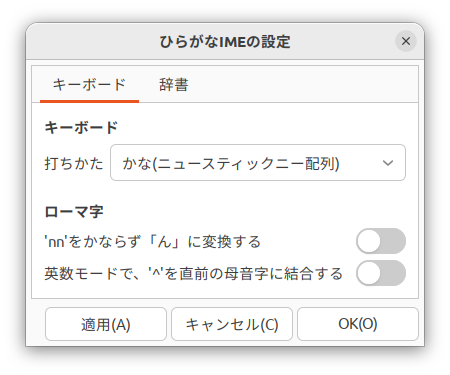
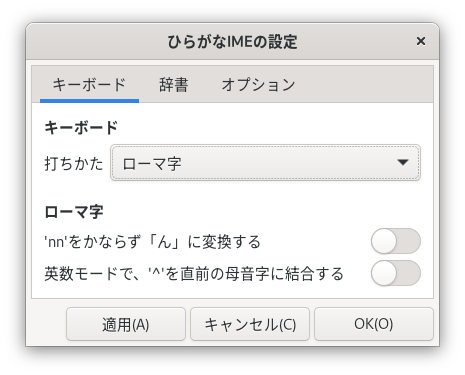
docs: Add Setup-Option description
docs/altgr.html
docs/ibus-setup-hiragana_1.png
docs/ibus-setup-hiragana_2.png
docs/ibus-setup-hiragana_3.png
docs/index.html
docs/install.html
docs/key_assign.html
docs/layouts.html
docs/meson.build
docs/roomazi.html
docs/settings.html
docs/usage.html
docs_md/settings.md

diff --git a/docs/settings.html b/docs/settings.html
@@ -75,6 +75,7 @@ function shrinkToc() {
   <li><a href='settings.html#ibus-setup-hiragana'>「ひらがなIMEの<ruby>設定<rp>(</rp><rt>せってい</rt><rp>)</rp></ruby>」ウィンドウ</a>
   <li><a href='settings.html#layout'>[キーボード] タブ</a>
   <li><a href='settings.html#dictionary'>[<ruby>辞書<rp>(</rp><rt>じしょ</rt><rp>)</rp></ruby>] タブ</a>
+  <li><a href='settings.html#option'>[オプション] タブ</a>
 </ul>
 </details>
 <li><details><summary><a href='layouts.html'>かな<ruby>入力<rp>(</rp><rt>にゅうりょく</rt><rp>)</rp></ruby></a></summary>
@@ -107,8 +108,8 @@ function shrinkToc() {
 <h2 id="ibus-setup-hiragana">「ひらがなIMEの<ruby>設定<rp>(</rp><rt>せってい</rt><rp>)</rp></ruby>」ウィンドウ</h2>
 <p>&#x3000;「ひらがなIME」の<ruby>設定<rp>(</rp><rt>せってい</rt><rp>)</rp></ruby>は、「ひらがなIMEの<ruby>設定<rp>(</rp><rt>せってい</rt><rp>)</rp></ruby>」ウィンドウでおこないます。トップバーのキーボード メニューから[<ruby>設定<rp>(</rp><rt>せってい</rt><rp>)</rp></ruby>]をえらぶと、「ひらがなIMEの<ruby>設定<rp>(</rp><rt>せってい</rt><rp>)</rp></ruby>」ウィンドウがひらきます。</p>
 <p><img alt="キーボード メニュー" src="keyboard-menu.png"></p>
-<p><img alt="「ひらがなIMEの&lt;ruby&gt;設定&lt;rp&gt;(&lt;/rp&gt;&lt;rt&gt;せってい&lt;/rt&gt;&lt;rp&gt;)&lt;/rp&gt;&lt;/ruby&gt;」ウィンドウ" src="ibus-setup-hiragana_1.png"></p>
-<p><br>&#x3000;「ひらがなIMEの<ruby>設定<rp>(</rp><rt>せってい</rt><rp>)</rp></ruby>」ウィンドウには、つぎのふたつのタブがあります。</p>
+<p><img alt="「ひらがなIMEの設定」ウィンドウ" src="ibus-setup-hiragana_1.png"></p>
+<p><br>&#x3000;「ひらがなIMEの<ruby>設定<rp>(</rp><rt>せってい</rt><rp>)</rp></ruby>」ウィンドウには、つぎの３つのタブがあります。</p>
 <table>
 <thead>
 <tr>
@@ -125,12 +126,16 @@ function shrinkToc() {
 <td><a href="#dictionary"><ruby>辞書<rp>(</rp><rt>じしょ</rt><rp>)</rp></ruby></a></td>
 <td><ruby>使用<rp>(</rp><rt>しよう</rt><rp>)</rp></ruby>する<ruby>漢字<rp>(</rp><rt>かんじ</rt><rp>)</rp></ruby><ruby>辞書<rp>(</rp><rt>じしょ</rt><rp>)</rp></ruby>をえらびます。「ひらがなIME」は、<ruby>学年<rp>(</rp><rt>がくねん</rt><rp>)</rp></ruby><ruby>別<rp>(</rp><rt>べつ</rt><rp>)</rp></ruby>の<ruby>漢字<rp>(</rp><rt>かんじ</rt><rp>)</rp></ruby><ruby>辞書<rp>(</rp><rt>じしょ</rt><rp>)</rp></ruby>を<ruby>用意<rp>(</rp><rt>ようい</rt><rp>)</rp></ruby>しています。</td>
 </tr>
+<tr>
+<td><a href="#option">オプション</a></td>
+<td><ruby>追加<rp>(</rp><rt>ついか</rt><rp>)</rp></ruby>の<ruby>設定<rp>(</rp><rt>せってい</rt><rp>)</rp></ruby>をします。</td>
+</tr>
 </tbody>
 </table>
 <p>&#x3000;<ruby>設定<rp>(</rp><rt>せってい</rt><rp>)</rp></ruby>した<ruby>内容<rp>(</rp><rt>ないよう</rt><rp>)</rp></ruby>は、[<ruby>OK<rp>(</rp><rt>オッケー</rt><rp>)</rp></ruby>]ボタンか[<ruby>適用<rp>(</rp><rt>てきよう</rt><rp>)</rp></ruby>]ボタンをおせば「ひらがなIME」にすぐ<ruby>反映<rp>(</rp><rt>はんえい</rt><rp>)</rp></ruby>されます。</p>
 <h2 id="layout">[キーボード] タブ</h2>
 <p>&#x3000;[キーボード]タブでは、<ruby>日本語<rp>(</rp><rt>にほんご</rt><rp>)</rp></ruby>の<ruby>入力<rp>(</rp><rt>にゅうりょく</rt><rp>)</rp></ruby><ruby>方法<rp>(</rp><rt>ほうほう</rt><rp>)</rp></ruby>を<ruby>設定<rp>(</rp><rt>せってい</rt><rp>)</rp></ruby>します。</p>
-<p><img alt="「ひらがなIMEの&lt;ruby&gt;設定&lt;rp&gt;(&lt;/rp&gt;&lt;rt&gt;せってい&lt;/rt&gt;&lt;rp&gt;)&lt;/rp&gt;&lt;/ruby&gt;」ウィンドウ" src="ibus-setup-hiragana_1.png"></p>
+<p><img alt="「ひらがなIMEの設定」ウィンドウ" src="ibus-setup-hiragana_1.png"></p>
 <p>&#x3000;「<ruby>打<rp>(</rp><rt>う</rt><rp>)</rp></ruby>ちかた」は、ドロップダウンリストからえらびます。つぎの３<ruby>種類<rp>(</rp><rt>しゅるい</rt><rp>)</rp></ruby>があります。</p>
 <table>
 <thead>
@@ -180,7 +185,7 @@ function shrinkToc() {
 
 <h2 id="dictionary">[<ruby>辞書<rp>(</rp><rt>じしょ</rt><rp>)</rp></ruby>] タブ</h2>
 <p>&#x3000;[<ruby>辞書<rp>(</rp><rt>じしょ</rt><rp>)</rp></ruby>]タブでは、<ruby>漢字<rp>(</rp><rt>かんじ</rt><rp>)</rp></ruby><ruby>変換<rp>(</rp><rt>へんかん</rt><rp>)</rp></ruby>につかう<ruby>辞書<rp>(</rp><rt>じしょ</rt><rp>)</rp></ruby>を<ruby>指定<rp>(</rp><rt>してい</rt><rp>)</rp></ruby>します。「ひらがなIME」は、おとな<ruby>用<rp>(</rp><rt>よう</rt><rp>)</rp></ruby>の<ruby>漢字<rp>(</rp><rt>かんじ</rt><rp>)</rp></ruby><ruby>辞書<rp>(</rp><rt>じしょ</rt><rp>)</rp></ruby>のほかに、<ruby>小中学生<rp>(</rp><rt>しょうちゅうがくせい</rt><rp>)</rp></ruby><ruby>用<rp>(</rp><rt>よう</rt><rp>)</rp></ruby>の<ruby>学年<rp>(</rp><rt>がくねん</rt><rp>)</rp></ruby><ruby>別<rp>(</rp><rt>べつ</rt><rp>)</rp></ruby>の<ruby>辞書<rp>(</rp><rt>じしょ</rt><rp>)</rp></ruby>を<ruby>用意<rp>(</rp><rt>ようい</rt><rp>)</rp></ruby>しています。</p>
-<p><img alt="「ひらがなIMEの&lt;ruby&gt;設定&lt;rp&gt;(&lt;/rp&gt;&lt;rt&gt;せってい&lt;/rt&gt;&lt;rp&gt;)&lt;/rp&gt;&lt;/ruby&gt;」ウィンドウ" src="ibus-setup-hiragana_2.png"></p>
+<p><img alt="「ひらがなIMEの設定」ウィンドウ" src="ibus-setup-hiragana_2.png"></p>
 <p>&#x3000;<ruby>漢字<rp>(</rp><rt>かんじ</rt><rp>)</rp></ruby><ruby>辞書<rp>(</rp><rt>じしょ</rt><rp>)</rp></ruby>は、「<ruby>漢字<rp>(</rp><rt>かんじ</rt><rp>)</rp></ruby><ruby>辞書<rp>(</rp><rt>じしょ</rt><rp>)</rp></ruby>」コンボボックスでえらびます。</p>
 <p>&#x3000;おとな<ruby>用<rp>(</rp><rt>よう</rt><rp>)</rp></ruby>の<ruby>辞書<rp>(</rp><rt>じしょ</rt><rp>)</rp></ruby>は、「<a href="https://www.bunka.go.jp/kokugo_nihongo/sisaku/joho/joho/kijun/naikaku/kanji/"><ruby>常用<rp>(</rp><rt>じょうよう</rt><rp>)</rp></ruby><ruby>漢字<rp>(</rp><rt>かんじ</rt><rp>)</rp></ruby><ruby>表<rp>(</rp><rt>ひょう</rt><rp>)</rp></ruby></a>」にある<ruby>漢字<rp>(</rp><rt>かんじ</rt><rp>)</rp></ruby>と「<a href="http://www.moj.go.jp/MINJI/minji86.html"><ruby>人名<rp>(</rp><rt>じんめい</rt><rp>)</rp></ruby><ruby>用<rp>(</rp><rt>よう</rt><rp>)</rp></ruby><ruby>漢字<rp>(</rp><rt>かんじ</rt><rp>)</rp></ruby><ruby>表<rp>(</rp><rt>ひょう</rt><rp>)</rp></ruby></a>」にある<ruby>漢字<rp>(</rp><rt>かんじ</rt><rp>)</rp></ruby>をつかって<ruby>構成<rp>(</rp><rt>こうせい</rt><rp>)</rp></ruby>されています。<ruby>学年<rp>(</rp><rt>がくねん</rt><rp>)</rp></ruby><ruby>別<rp>(</rp><rt>べつ</rt><rp>)</rp></ruby>の<ruby>辞書<rp>(</rp><rt>じしょ</rt><rp>)</rp></ruby>は、<ruby>平成<rp>(</rp><rt>へいせい</rt><rp>)</rp></ruby>29<ruby>年<rp>(</rp><rt>ねん</rt><rp>)</rp></ruby>の「<a href="http://www.mext.go.jp/a_menu/shotou/new-cs/1385768.htm"><ruby>音訓<rp>(</rp><rt>おんくん</rt><rp>)</rp></ruby>の<ruby>小<rp>(</rp><rt>しょう</rt><rp>)</rp></ruby>・<ruby>中<rp>(</rp><rt>ちゅう</rt><rp>)</rp></ruby>・<ruby>高等学校<rp>(</rp><rt>こうとうがっこう</rt><rp>)</rp></ruby><ruby>段階<rp>(</rp><rt>だんかい</rt><rp>)</rp></ruby><ruby>別<rp>(</rp><rt>べつ</rt><rp>)</rp></ruby><ruby>割<rp>(</rp><rt>わ</rt><rp>)</rp></ruby>り<ruby>振<rp>(</rp><rt>ふ</rt><rp>)</rp></ruby>り<ruby>表<rp>(</rp><rt>ひょう</rt><rp>)</rp></ruby></a>」にそって<ruby>構成<rp>(</rp><rt>こうせい</rt><rp>)</rp></ruby>されています。</p>
 <p>&#x3000;おくりがなのつけかたは、『<a href="http://www.bunka.go.jp/kokugo_nihongo/sisaku/joho/joho/kijun/naikaku/okurikana/index.html"><ruby>送<rp>(</rp><rt>おく</rt><rp>)</rp></ruby>り<ruby>仮名<rp>(</rp><rt>かな</rt><rp>)</rp></ruby>の<ruby>付<rp>(</rp><rt>つ</rt><rp>)</rp></ruby>け<ruby>方<rp>(</rp><rt>かた</rt><rp>)</rp></ruby></a>』に<ruby>本則<rp>(</rp><rt>ほんそく</rt><rp>)</rp></ruby>や<ruby>許容<rp>(</rp><rt>きょよう</rt><rp>)</rp></ruby>されているつけかたがしめされています。「おとな<ruby>用<rp>(</rp><rt>よう</rt><rp>)</rp></ruby>(おくりがな: <ruby>本則<rp>(</rp><rt>ほんそく</rt><rp>)</rp></ruby>)」<ruby>辞書<rp>(</rp><rt>じしょ</rt><rp>)</rp></ruby>では、<ruby>本則<rp>(</rp><rt>ほんそく</rt><rp>)</rp></ruby>をつかいます。「おとな<ruby>用<rp>(</rp><rt>よう</rt><rp>)</rp></ruby>(おくりがな: <ruby>本則<rp>(</rp><rt>ほんそく</rt><rp>)</rp></ruby>+<ruby>許容<rp>(</rp><rt>きょよう</rt><rp>)</rp></ruby>)」<ruby>辞書<rp>(</rp><rt>じしょ</rt><rp>)</rp></ruby>では、<ruby>本則<rp>(</rp><rt>ほんそく</rt><rp>)</rp></ruby>にくわえて、<ruby>許容<rp>(</rp><rt>きょよう</rt><rp>)</rp></ruby>されているおくりかたもつかえます。</p>
@@ -352,6 +357,17 @@ function shrinkToc() {
 </table>
 <h3><ruby>入力<rp>(</rp><rt>にゅうりょく</rt><rp>)</rp></ruby><ruby>履歴<rp>(</rp><rt>りれき</rt><rp>)</rp></ruby>のクリア</h3>
 <p>&#x3000;<ruby>同音<rp>(</rp><rt>どうおん</rt><rp>)</rp></ruby><ruby>異義<rp>(</rp><rt>いぎ</rt><rp>)</rp></ruby><ruby>語<rp>(</rp><rt>ご</rt><rp>)</rp></ruby>やよみを<ruby>短縮<rp>(</rp><rt>たんしゅく</rt><rp>)</rp></ruby>したことばの<ruby>変換<rp>(</rp><rt>へんかん</rt><rp>)</rp></ruby><ruby>中<rp>(</rp><rt>ちゅう</rt><rp>)</rp></ruby>は、よくつかうものが<ruby>一覧<rp>(</rp><rt>いちらん</rt><rp>)</rp></ruby>のはじめのほうにきます。これを<ruby>初期<rp>(</rp><rt>しょき</rt><rp>)</rp></ruby><ruby>状態<rp>(</rp><rt>じょうたい</rt><rp>)</rp></ruby>にもどしたいときは、「<ruby>入力<rp>(</rp><rt>にゅうりょく</rt><rp>)</rp></ruby><ruby>履歴<rp>(</rp><rt>りれき</rt><rp>)</rp></ruby>をクリアする」スイッチをオンにして[<ruby>適用<rp>(</rp><rt>てきよう</rt><rp>)</rp></ruby>]ボタンをおします。</p>
+<h2 id="option">[オプション] タブ</h2>
+<p>&#x3000;[オプション]タブでは、<ruby>入力<rp>(</rp><rt>にゅうりょく</rt><rp>)</rp></ruby>アシスト<ruby>機能<rp>(</rp><rt>きのう</rt><rp>)</rp></ruby>の<ruby>設定<rp>(</rp><rt>せってい</rt><rp>)</rp></ruby>ができます。</p>
+<p><img alt="「ひらがなIMEの設定」ウィンドウ" src="ibus-setup-hiragana_3.png"></p>
+<h3 id="llm"><ruby>変換<rp>(</rp><rt>へんかん</rt><rp>)</rp></ruby><ruby>候補<rp>(</rp><rt>こうほ</rt><rp>)</rp></ruby>の<ruby>選択<rp>(</rp><rt>せんたく</rt><rp>)</rp></ruby>に<ruby>大規模<rp>(</rp><rt>だいきぼ</rt><rp>)</rp></ruby><ruby>言語<rp>(</rp><rt>げんご</rt><rp>)</rp></ruby>モデルを<ruby>利用<rp>(</rp><rt>りよう</rt><rp>)</rp></ruby>する</h3>
+<p>&#x3000;いわゆるAIを<ruby>利用<rp>(</rp><rt>りよう</rt><rp>)</rp></ruby>した<ruby>機能<rp>(</rp><rt>きのう</rt><rp>)</rp></ruby>です。オンにすると、<ruby>変換<rp>(</rp><rt>へんかん</rt><rp>)</rp></ruby><ruby>候補<rp>(</rp><rt>こうほ</rt><rp>)</rp></ruby>のなかで<ruby>選択<rp>(</rp><rt>せんたく</rt><rp>)</rp></ruby>する<ruby>確率<rp>(</rp><rt>かくりつ</rt><rp>)</rp></ruby>のたかい<ruby>候補<rp>(</rp><rt>こうほ</rt><rp>)</rp></ruby>を<ruby>文脈<rp>(</rp><rt>ぶんみゃく</rt><rp>)</rp></ruby>から<ruby>計算<rp>(</rp><rt>けいさん</rt><rp>)</rp></ruby>します。そして、もっとも<ruby>確率<rp>(</rp><rt>かくりつ</rt><rp>)</rp></ruby>のたかい<ruby>候補<rp>(</rp><rt>こうほ</rt><rp>)</rp></ruby>をあらかじめ<ruby>選択<rp>(</rp><rt>せんたく</rt><rp>)</rp></ruby>した<ruby>状態<rp>(</rp><rt>じょうたい</rt><rp>)</rp></ruby>で<ruby>表示<rp>(</rp><rt>ひょうじ</rt><rp>)</rp></ruby>します。</p>
+<p>&#x3000;たとえば、「のぼる」を<ruby>変換<rp>(</rp><rt>へんかん</rt><rp>)</rp></ruby>するときは、<ruby>文脈<rp>(</rp><rt>ぶんみゃく</rt><rp>)</rp></ruby>に<ruby>応<rp>(</rp><rt>おう</rt><rp>)</rp></ruby>じてつぎのように<ruby>選択<rp>(</rp><rt>せんたく</rt><rp>)</rp></ruby>されている<ruby>候補<rp>(</rp><rt>こうほ</rt><rp>)</rp></ruby>がかわります。</p>
+<ul>
+<li><ruby>山<rp>(</rp><rt>やま</rt><rp>)</rp></ruby>に<span style="background-color:#d1eaff">登る</span></li>
+<li><ruby>日<rp>(</rp><rt>ひ</rt><rp>)</rp></ruby>が<span style="background-color:#d1eaff">昇る</span></li>
+</ul>
+<p><strong><ruby>注意<rp>(</rp><rt>ちゅうい</rt><rp>)</rp></ruby></strong>: あくまで<ruby>確率<rp>(</rp><rt>かくりつ</rt><rp>)</rp></ruby>を<ruby>計算<rp>(</rp><rt>けいさん</rt><rp>)</rp></ruby>しているだけなので、じっさいにつかいたい<ruby>候補<rp>(</rp><rt>こうほ</rt><rp>)</rp></ruby>がいつもえらばれるわけではありません。この<ruby>機能<rp>(</rp><rt>きのう</rt><rp>)</rp></ruby>ばデフォルトではオフになっています。</p>
 </main>
 </div>
 

diff --git a/docs/altgr.html b/docs/altgr.html
@@ -75,6 +75,7 @@ function shrinkToc() {
   <li><a href='settings.html#ibus-setup-hiragana'>「ひらがなIMEの<ruby>設定<rp>(</rp><rt>せってい</rt><rp>)</rp></ruby>」ウィンドウ</a>
   <li><a href='settings.html#layout'>[キーボード] タブ</a>
   <li><a href='settings.html#dictionary'>[<ruby>辞書<rp>(</rp><rt>じしょ</rt><rp>)</rp></ruby>] タブ</a>
+  <li><a href='settings.html#option'>[オプション] タブ</a>
 </ul>
 </details>
 <li><details><summary><a href='layouts.html'>かな<ruby>入力<rp>(</rp><rt>にゅうりょく</rt><rp>)</rp></ruby></a></summary>
@@ -110,7 +111,7 @@ function shrinkToc() {
 <p>&#x3000;<ruby>日本語<rp>(</rp><rt>にほんご</rt><rp>)</rp></ruby>にも、よくつかう<ruby>文字<rp>(</rp><rt>もじ</rt><rp>)</rp></ruby>で、キーボードからちょくせつ<ruby>入力<rp>(</rp><rt>にゅうりょく</rt><rp>)</rp></ruby>できない<ruby>文字<rp>(</rp><rt>もじ</rt><rp>)</rp></ruby>があります。たとえば、<ruby>郵便<rp>(</rp><rt>ゆうびん</rt><rp>)</rp></ruby><ruby>番号<rp>(</rp><rt>ばんごう</rt><rp>)</rp></ruby>の「〒」や、<ruby>温度<rp>(</rp><rt>おんど</rt><rp>)</rp></ruby>の「℃」といった<ruby>文字<rp>(</rp><rt>もじ</rt><rp>)</rp></ruby>です。「ひらがなIME」では、そうした<ruby>文字<rp>(</rp><rt>もじ</rt><rp>)</rp></ruby>を<span class='key'>AltGr</span>キーをつかって<ruby>入力<rp>(</rp><rt>にゅうりょく</rt><rp>)</rp></ruby>することができます。</p>
 <h2 id="altgr-settings"><ruby>右<rp>(</rp><rt>みぎ</rt><rp>)</rp></ruby><span class='key'>Alt</span>キーを<span class='key'>AltGr</span>キーに<ruby>設定<rp>(</rp><rt>せってい</rt><rp>)</rp></ruby>する<ruby>方法<rp>(</rp><rt>ほうほう</rt><rp>)</rp></ruby></h2>
 <p>&#x3000;GNOME<ruby>環境<rp>(</rp><rt>かんきょう</rt><rp>)</rp></ruby>を<ruby>利用<rp>(</rp><rt>りよう</rt><rp>)</rp></ruby>しているばあいは、GNOMEの「<ruby>設定<rp>(</rp><rt>せってい</rt><rp>)</rp></ruby>」をひらいて、「キーボード」を<ruby>選択<rp>(</rp><rt>せんたく</rt><rp>)</rp></ruby>します。このなかの「<ruby>特殊<rp>(</rp><rt>とくしゅ</rt><rp>)</rp></ruby><ruby>文字<rp>(</rp><rt>もじ</rt><rp>)</rp></ruby>の<ruby>入力<rp>(</rp><rt>にゅうりょく</rt><rp>)</rp></ruby>」にある「<ruby>代替<rp>(</rp><rt>だいたい</rt><rp>)</rp></ruby><ruby>文字<rp>(</rp><rt>もじ</rt><rp>)</rp></ruby>キー」を「<ruby>右<rp>(</rp><rt>みぎ</rt><rp>)</rp></ruby>Alt」に<ruby>設定<rp>(</rp><rt>せってい</rt><rp>)</rp></ruby>します。</p>
-<p><img alt="&lt;ruby&gt;設定&lt;rp&gt;(&lt;/rp&gt;&lt;rt&gt;せってい&lt;/rt&gt;&lt;rp&gt;)&lt;/rp&gt;&lt;/ruby&gt;—キーボード" src="settings-keyboard.png"></p>
+<p><img alt="設定—キーボード" src="settings-keyboard.png"></p>
 <h2 id="altgr-characters"><span class='key'>AltGr</span>キーをつかって<ruby>入力<rp>(</rp><rt>にゅうりょく</rt><rp>)</rp></ruby>できる<ruby>文字<rp>(</rp><rt>もじ</rt><rp>)</rp></ruby>や<ruby>記号<rp>(</rp><rt>きごう</rt><rp>)</rp></ruby></h2>
 <p>&#x3000;<span class='key'>AltGr</span><ruby>面<rp>(</rp><rt>めん</rt><rp>)</rp></ruby>の<ruby>文字<rp>(</rp><rt>もじ</rt><rp>)</rp></ruby>を<ruby>入力<rp>(</rp><rt>にゅうりょく</rt><rp>)</rp></ruby>するときは、<span class='key'>AltGr</span>キーをおさえながら、<ruby>目的<rp>(</rp><rt>もくてき</rt><rp>)</rp></ruby>の<ruby>文字<rp>(</rp><rt>もじ</rt><rp>)</rp></ruby>のキーをおします。</p>
 <h3><ruby>例<rp>(</rp><rt>れい</rt><rp>)</rp></ruby></h3>

diff --git a/docs/install.html b/docs/install.html
@@ -75,6 +75,7 @@ function shrinkToc() {
   <li><a href='settings.html#ibus-setup-hiragana'>「ひらがなIMEの<ruby>設定<rp>(</rp><rt>せってい</rt><rp>)</rp></ruby>」ウィンドウ</a>
   <li><a href='settings.html#layout'>[キーボード] タブ</a>
   <li><a href='settings.html#dictionary'>[<ruby>辞書<rp>(</rp><rt>じしょ</rt><rp>)</rp></ruby>] タブ</a>
+  <li><a href='settings.html#option'>[オプション] タブ</a>
 </ul>
 </details>
 <li><details><summary><a href='layouts.html'>かな<ruby>入力<rp>(</rp><rt>にゅうりょく</rt><rp>)</rp></ruby></a></summary>
@@ -154,7 +155,7 @@ ninja -C _build  install
 <p><br>※ キーボード<ruby>配列<rp>(</rp><rt>はいれつ</rt><rp>)</rp></ruby>やインプット メソッドのことをまとめて「<a href="https://wiki.gnome.org/Design/OS/LanguageInput"><ruby>入力<rp>(</rp><rt>にゅうりょく</rt><rp>)</rp></ruby>ソース</a>」とよんでいます。</p>
 <h3>GNOMEを<ruby>利用<rp>(</rp><rt>りよう</rt><rp>)</rp></ruby>しているとき</h3>
 <p>&#x3000;FedoraやUbuntuでは、GNOMEが<ruby>標準<rp>(</rp><rt>ひょうじゅん</rt><rp>)</rp></ruby>のデスクトップ<ruby>環境<rp>(</rp><rt>かんきょう</rt><rp>)</rp></ruby>になっています。GNOMEを<ruby>利用<rp>(</rp><rt>りよう</rt><rp>)</rp></ruby>しているときは、GNOMEの「<ruby>設定<rp>(</rp><rt>せってい</rt><rp>)</rp></ruby>」をひらいて、「キーボード」の「<ruby>入力<rp>(</rp><rt>にゅうりょく</rt><rp>)</rp></ruby>ソース」に、「<ruby>日本語<rp>(</rp><rt>にほんご</rt><rp>)</rp></ruby> (Hiragana IME)」を<ruby>追加<rp>(</rp><rt>ついか</rt><rp>)</rp></ruby>します。</p>
-<p><img alt="&lt;ruby&gt;設定&lt;rp&gt;(&lt;/rp&gt;&lt;rt&gt;せってい&lt;/rt&gt;&lt;rp&gt;)&lt;/rp&gt;&lt;/ruby&gt;—キーボード" src="settings-keyboard.png"></p>
+<p><img alt="設定—キーボード" src="settings-keyboard.png"></p>
 <h3>GNOME<ruby>以外<rp>(</rp><rt>いがい</rt><rp>)</rp></ruby>を<ruby>利用<rp>(</rp><rt>りよう</rt><rp>)</rp></ruby>しているとき</h3>
 <p>&#x3000;「IBusの<ruby>設定<rp>(</rp><rt>せってい</rt><rp>)</rp></ruby>」ウィンドウをひらいて、「<ruby>入力<rp>(</rp><rt>にゅうりょく</rt><rp>)</rp></ruby>メソッド」タブの「<ruby>入力<rp>(</rp><rt>にゅうりょく</rt><rp>)</rp></ruby>メソッド」に、
 <br><br></p>

diff --git a/docs/layouts.html b/docs/layouts.html
@@ -75,6 +75,7 @@ function shrinkToc() {
   <li><a href='settings.html#ibus-setup-hiragana'>「ひらがなIMEの<ruby>設定<rp>(</rp><rt>せってい</rt><rp>)</rp></ruby>」ウィンドウ</a>
   <li><a href='settings.html#layout'>[キーボード] タブ</a>
   <li><a href='settings.html#dictionary'>[<ruby>辞書<rp>(</rp><rt>じしょ</rt><rp>)</rp></ruby>] タブ</a>
+  <li><a href='settings.html#option'>[オプション] タブ</a>
 </ul>
 </details>
 <li><details open><summary><a href='layouts.html'>かな<ruby>入力<rp>(</rp><rt>にゅうりょく</rt><rp>)</rp></ruby></a></summary>

diff --git a/docs/index.html b/docs/index.html
@@ -75,6 +75,7 @@ function shrinkToc() {
   <li><a href='settings.html#ibus-setup-hiragana'>「ひらがなIMEの<ruby>設定<rp>(</rp><rt>せってい</rt><rp>)</rp></ruby>」ウィンドウ</a>
   <li><a href='settings.html#layout'>[キーボード] タブ</a>
   <li><a href='settings.html#dictionary'>[<ruby>辞書<rp>(</rp><rt>じしょ</rt><rp>)</rp></ruby>] タブ</a>
+  <li><a href='settings.html#option'>[オプション] タブ</a>
 </ul>
 </details>
 <li><details><summary><a href='layouts.html'>かな<ruby>入力<rp>(</rp><rt>にゅうりょく</rt><rp>)</rp></ruby></a></summary>

diff --git a/docs/key_assign.html b/docs/key_assign.html
@@ -75,6 +75,7 @@ function shrinkToc() {
   <li><a href='settings.html#ibus-setup-hiragana'>「ひらがなIMEの<ruby>設定<rp>(</rp><rt>せってい</rt><rp>)</rp></ruby>」ウィンドウ</a>
   <li><a href='settings.html#layout'>[キーボード] タブ</a>
   <li><a href='settings.html#dictionary'>[<ruby>辞書<rp>(</rp><rt>じしょ</rt><rp>)</rp></ruby>] タブ</a>
+  <li><a href='settings.html#option'>[オプション] タブ</a>
 </ul>
 </details>
 <li><details><summary><a href='layouts.html'>かな<ruby>入力<rp>(</rp><rt>にゅうりょく</rt><rp>)</rp></ruby></a></summary>

diff --git a/docs/roomazi.html b/docs/roomazi.html
@@ -75,6 +75,7 @@ function shrinkToc() {
   <li><a href='settings.html#ibus-setup-hiragana'>「ひらがなIMEの<ruby>設定<rp>(</rp><rt>せってい</rt><rp>)</rp></ruby>」ウィンドウ</a>
   <li><a href='settings.html#layout'>[キーボード] タブ</a>
   <li><a href='settings.html#dictionary'>[<ruby>辞書<rp>(</rp><rt>じしょ</rt><rp>)</rp></ruby>] タブ</a>
+  <li><a href='settings.html#option'>[オプション] タブ</a>
 </ul>
 </details>
 <li><details><summary><a href='layouts.html'>かな<ruby>入力<rp>(</rp><rt>にゅうりょく</rt><rp>)</rp></ruby></a></summary>

diff --git a/docs/usage.html b/docs/usage.html
@@ -75,6 +75,7 @@ function shrinkToc() {
   <li><a href='settings.html#ibus-setup-hiragana'>「ひらがなIMEの<ruby>設定<rp>(</rp><rt>せってい</rt><rp>)</rp></ruby>」ウィンドウ</a>
   <li><a href='settings.html#layout'>[キーボード] タブ</a>
   <li><a href='settings.html#dictionary'>[<ruby>辞書<rp>(</rp><rt>じしょ</rt><rp>)</rp></ruby>] タブ</a>
+  <li><a href='settings.html#option'>[オプション] タブ</a>
 </ul>
 </details>
 <li><details><summary><a href='layouts.html'>かな<ruby>入力<rp>(</rp><rt>にゅうりょく</rt><rp>)</rp></ruby></a></summary>

diff --git a/docs_md/settings.md b/docs_md/settings.md
@@ -9,12 +9,13 @@
 
 ![「ひらがなIMEの設定」ウィンドウ](ibus-setup-hiragana_1.png)
 
-<br>　「ひらがなIMEの設定せってい」ウィンドウには、つぎのふたつのタブがあります。
+<br>　「ひらがなIMEの設定せってい」ウィンドウには、つぎの３つのタブがあります。
 
 <nobr>タブのなまえ</nobr> | 説明せつめい
 ---|---
 [キーボード](#layout) | 日本語にほんごの入力にゅうりょく方法ほうほうを設定せっていします。ローマ字じ入力にゅうりょくとかな入力にゅうりょくのきりかえもここでおこないます。
 [辞書じしょ](#dictionary) | 使用しようする漢字かんじ辞書じしょをえらびます。「ひらがなIME」は、学年がくねん別べつの漢字かんじ辞書じしょを用意よういしています。
+[オプション](#option) | 追加ついかの設定せっていをします。
 
 　設定せっていした内容ないようは、[OKオッケー]ボタンか[適用てきよう]ボタンをおせば「ひらがなIME」にすぐ反映はんえいされます。
 
@@ -180,3 +181,21 @@
 
 　同音どうおん異義いぎ語ごやよみを短縮たんしゅくしたことばの変換へんかん中ちゅうは、よくつかうものが一覧いちらんのはじめのほうにきます。
 これを初期しょき状態じょうたいにもどしたいときは、「入力にゅうりょく履歴りれきをクリアする」スイッチをオンにして[適用てきよう]ボタンをおします。
+
+## [オプション] タブ {: #option}
+
+　[オプション]タブでは、入力にゅうりょくアシスト機能きのうの設定せっていができます。
+
+![「ひらがなIMEの設定」ウィンドウ](ibus-setup-hiragana_3.png)
+
+### 変換へんかん候補こうほの選択せんたくに大規模だいきぼ言語げんごモデルを利用りようする {: #llm}
+
+　いわゆるAIを利用りようした機能きのうです。
+オンにすると、変換へんかん候補こうほのなかで選択せんたくする確率かくりつのたかい候補こうほを文脈ぶんみゃくから計算けいさんします。
+そして、もっとも確率かくりつのたかい候補こうほをあらかじめ選択せんたくした状態じょうたいで表示ひょうじします。
+　たとえば、「のぼる」を変換へんかんするときは、文脈ぶんみゃくに応おうじてつぎのように選択せんたくされている候補こうほがかわります。
+
+- 山やまに<span style="background-color:#d1eaff">登る</span>
+- 日ひが<span style="background-color:#d1eaff">昇る</span>
+
+**注意ちゅうい**: あくまで確率かくりつを計算けいさんしているだけなので、じっさいにつかいたい候補こうほがいつもえらばれるわけではありません。この機能きのうばデフォルトではオフになっています。
